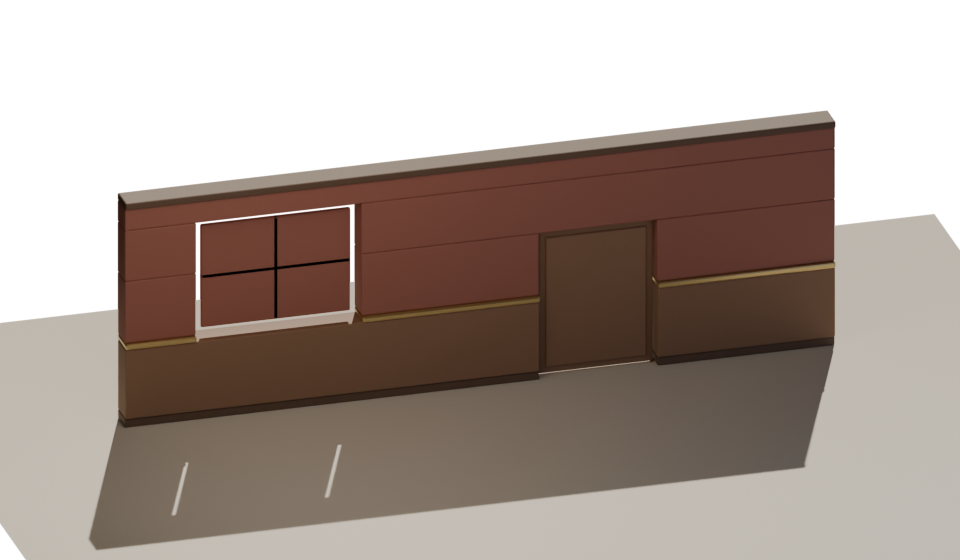
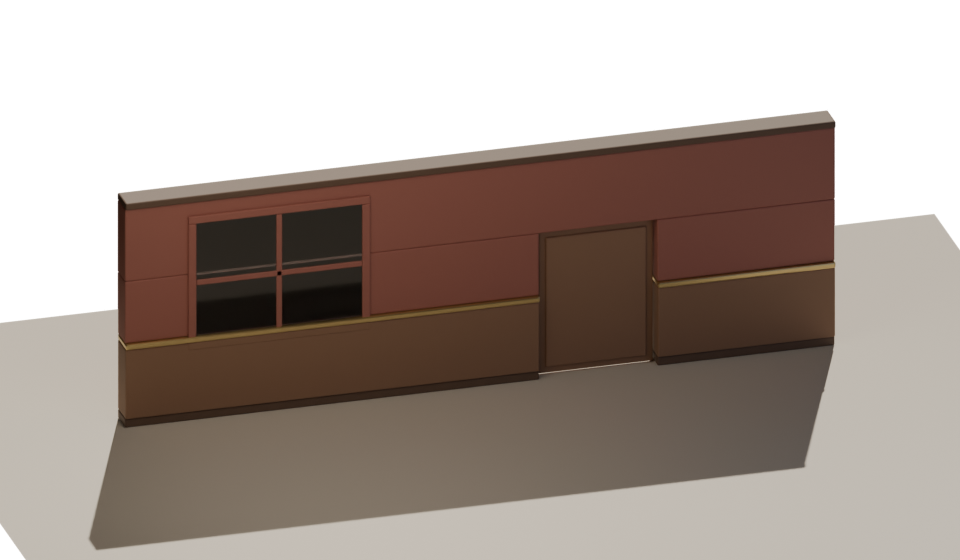
feat(blender): windows stay on a solid wall, only doors and arches cut through
Windows are not traversable, so cutting a hole bought nothing and cost a see-through gap,
occlusion work and an invented exterior. They are now a proud casing, mullions and a glass
pane on a solid wall - cheaper and closer to how the reference art reads.

- window_parts() no longer depends on a hole; wall_with_openings() is for doors/arches/stairs
- 12 tests: door is a through hole with a solid header, window keeps the wall solid at three
  depths, frame sits proud of the inner face, leaf stays inside the reveal
- evidence render updated: one wall with a cut door and a painted window

diff --git a/scripts/raven/tools/test_blender_kit.py b/scripts/raven/tools/test_blender_kit.py
@@ -63,18 +63,35 @@ class WallKitGeometryTests(unittest.TestCase):
                 self.assertGreaterEqual(report["size"][0], self.kit.LENGTH)
 
 
-    def test_openings_keep_wall_above_a_door_and_below_a_window(self):
-        wall = self.kit.wall_with_openings(
-            600.0, [(150.0, 250.0, 0.0, 130.0), (400.0, 540.0, 70.0, 175.0)])
-        y = -11.0
-        self.assertFalse(self.kit.covers(wall, 200, y, 60))     # inside the doorway
-        self.assertTrue(self.kit.covers(wall, 200, y, 150))     # header above the door
-        self.assertFalse(self.kit.covers(wall, 470, y, 100))    # inside the window
-        self.assertTrue(self.kit.covers(wall, 470, y, 30))      # wall under the window
-        self.assertTrue(self.kit.covers(wall, 470, y, 185))     # wall above the window
-        self.assertTrue(self.kit.covers(wall, 320, y, 60))      # pier between openings
+    def test_door_is_a_through_hole_and_the_header_stays_solid(self):
+        door = (150.0, 250.0, 0.0, 130.0)
+        wall = self.kit.wall_with_openings(600.0, [door])
+        self.assertFalse(self.kit.covers(wall, 200, -21.0, 60))   # through the doorway
+        self.assertFalse(self.kit.covers(wall, 200, -5.0, 60))    # nothing in the reveal
+        self.assertTrue(self.kit.covers(wall, 200, -11.0, 150))   # header above the door
+        self.assertTrue(self.kit.covers(wall, 320, -11.0, 60))    # pier beside it
 
-    def test_door_leaf_and_window_frame_sit_inside_the_hole(self):
+    def test_window_keeps_the_wall_solid(self):
+        # Windows are not traversable: they stay part of the wall sprite, with no hole.
+        door = (150.0, 250.0, 0.0, 130.0)
+        wall = self.kit.wall_with_openings(600.0, [door])
+        window = (400.0, 540.0, 70.0, 175.0)
+        for y in (-21.0, -11.0, -1.0):
+            with self.subTest(y=y):
+                self.assertTrue(self.kit.covers(wall, 470, y, 120))
+        frame, glass = self.kit.window_parts(*window)
+        self.assertTrue(frame)
+        self.assertGreaterEqual(glass[0], window[0])
+        self.assertLessEqual(glass[2], window[1])
+
+    def test_window_frame_sits_proud_of_the_wall_face(self):
+        frame, glass = self.kit.window_parts(400.0, 540.0, 70.0, 175.0)
+        for box in frame:
+            self.assertGreaterEqual(box[1], 0.0)          # starts at the inner face
+            self.assertGreater(box[4], 0.0)               # and stands proud of it
+        self.assertGreater(glass[4], 0.0)
+
+    def test_door_leaf_sits_inside_the_hole(self):
         door = (150.0, 250.0, 0.0, 130.0)
         leaf = self.kit.door_leaf(*door)
         xs = [b[0] for b in leaf] + [b[3] for b in leaf]
@@ -86,15 +103,6 @@ class WallKitGeometryTests(unittest.TestCase):
         self.assertLessEqual(max(zs), door[3])
         self.assertGreaterEqual(min(ys), -self.kit.THICKNESS)
         self.assertLessEqual(max(ys), 0.0)
-
-        window = (400.0, 540.0, 70.0, 175.0)
-        parts, glass = self.kit.window_parts(*window)
-        for box in parts:
-            self.assertGreaterEqual(box[0], window[0])
-            self.assertLessEqual(box[3], window[1])
-        self.assertGreaterEqual(glass[0], window[0])
-        self.assertLessEqual(glass[2], window[1])
-
     def test_wall_without_openings_matches_a_straight_run(self):
         self.assertEqual(self.kit.wall_with_openings(200.0, []), self.kit.straight())
     def test_mirror_keeps_geometry_valid(self):

diff --git a/tools/blender/kit_geometry.py b/tools/blender/kit_geometry.py
@@ -196,19 +196,27 @@ def door_leaf(open_x0: float, open_x1: float, open_z0: float, open_z1: float,
     ]
 
 
-def window_parts(open_x0: float, open_x1: float, open_z0: float,
-                 open_z1: float) -> tuple[list[Box], tuple[float, float, float, float]]:
-    """Mullioned frame plus the glass rectangle, which the game draws as its own layer."""
-    frame = 7.0
-    y0, y1 = -THICKNESS + 9.0, -9.0
+def window_parts(open_x0: float, open_x1: float, open_z0: float, open_z1: float,
+                 casing: float = 7.0, proud: float = 2.0
+                 ) -> tuple[list[Box], tuple[float, float, float, float]]:
+    """Window for a SOLID wall: proud casing, mullions and a glass pane.
+
+    Windows are not traversable, so they stay part of the wall sprite instead of cutting a
+    hole: no see-through opening, no occlusion work and no invented exterior behind the glass.
+    Doorways and arches use `wall_with_openings()` instead.
+    """
     mid_x = (open_x0 + open_x1) / 2
     mid_z = (open_z0 + open_z1) / 2
-    boxes: list[Box] = [
-        (open_x0 + frame, y0, open_z0 + frame, open_x1 - frame, y1, open_z1 - frame),
-        (mid_x - 2.5, y0, open_z0 + frame, mid_x + 2.5, y1, open_z1 - frame),
-        (open_x0 + frame, y0, mid_z - 2.5, open_x1 - frame, y1, mid_z + 2.5),
+    frame = [
+        (open_x0 - casing, 0.0, open_z0 - casing, open_x1 + casing, proud, open_z0),
+        (open_x0 - casing, 0.0, open_z1, open_x1 + casing, proud, open_z1 + casing),
+        (open_x0 - casing, 0.0, open_z0, open_x0, proud, open_z1),
+        (open_x1, 0.0, open_z0, open_x1 + casing, proud, open_z1),
+        (mid_x - 2.5, 0.0, open_z0, mid_x + 2.5, proud * 0.8, open_z1),
+        (open_x0, 0.0, mid_z - 2.5, open_x1, proud * 0.8, mid_z + 2.5),
     ]
-    return boxes, (open_x0 + frame, open_z0 + frame, open_x1 - frame, open_z1 - frame)
+    glass = (open_x0, 0.0, open_z0, open_x1, proud * 0.4, open_z1)
+    return frame, glass
 
 def covers(boxes: list[Box], x: float, y: float, z: float) -> bool:
     """Public point-in-kit query used by the opening tests."""

diff --git a/docs/BLENDER_WALL_KIT.md b/docs/BLENDER_WALL_KIT.md
@@ -78,12 +78,20 @@ wall thickness for free.
 
 Each opening then owns independent layers:
 
+Two kinds of opening, two very different treatments:
+
+- **Doors, arches and stair openings are traversable, so they cut a real hole.**
+- **Windows are not traversable, so they do not cut anything.** The frame, mullions and glass
+  are proud of the wall face by a couple of units and the wall stays solid behind them. That
+  is cheaper and more robust: no see-through gap, no invented exterior behind the glass, no
+  extra occlusion mask, and the window is simply part of the wall sprite.
+
 | Layer | What it is | Swapped per state |
 |---|---|---|
-| Wall with hole | the structural piece; never changes | no |
+| Wall with hole | structural piece for doors/arches/stairs; never changes | no |
 | Casing / frame | trim around the reveal, part of the wall finish | damaged variant only |
-| Leaf / sash | door leaf, window sash, gate | yes: closed / open / damaged |
-| Glass | separate transparent layer, so the game can show a room behind it | no |
+| Leaf | door leaf or gate | yes: closed / open / damaged |
+| Window | proud frame + mullions + glass **on a solid wall** | intact / broken / boarded |
 | Threshold | floor line; for open doors and arches it is just floor | no |
 | Stair opening | big hole plus a separate stair mesh; the balustrade in front is a foreground cutout with alpha | intact / damaged |
 
